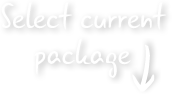
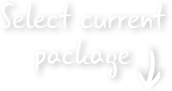
Updates styles for package dropdown overlay tips

diff --git a/assets/css/main.css b/assets/css/main.css
@@ -911,7 +911,9 @@ input.ng-valid.zipinp {
 }
 
 .oTip-select {
-    top: -60px;
+    top: -75px;
+    left: 50%;
+    transform: translateX(-50%);
 }
 
 .oTip-channels {
